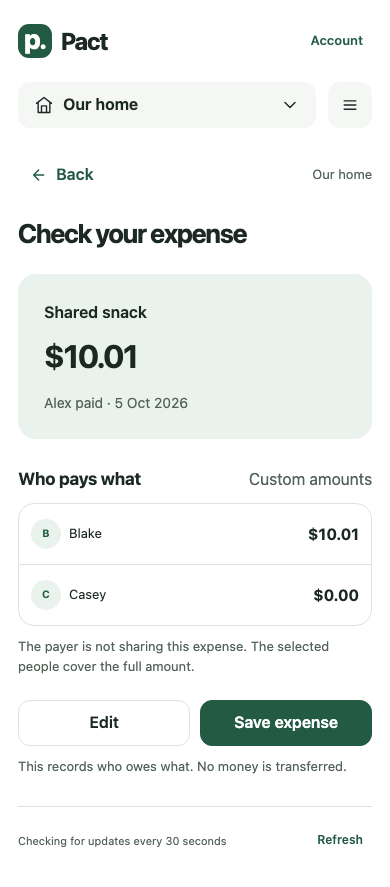
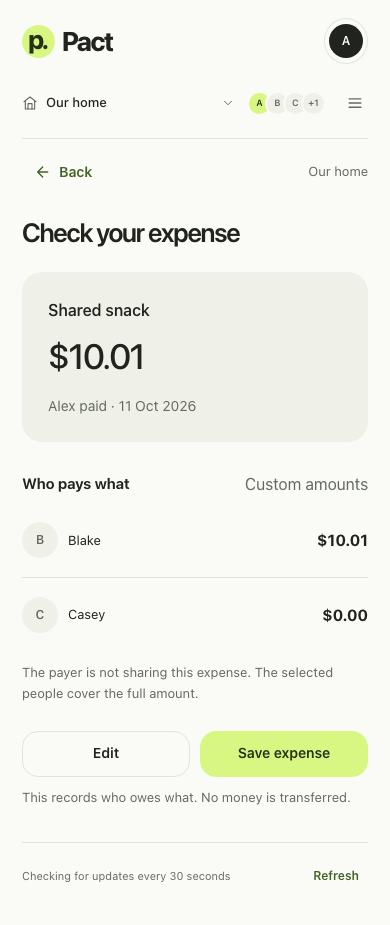
docs(release): prepare the preview.4 appearance upload

diff --git a/src/version.ts b/src/version.ts
@@ -1,1 +1,1 @@
-export const APP_VERSION = '0.4.0-preview.3';
+export const APP_VERSION = '0.4.0-preview.4';

diff --git a/docs/STATUS.md b/docs/STATUS.md
@@ -1,23 +1,21 @@
 # Project status
 
-Pact **0.4.0-preview.2** was deployed on **6 October 2026**. It is a household pilot combining custom-share auto-fill, editable display names and System/Light/Dark appearance with the existing shared-house workflows. This is a dated release milestone, not a live service-status report.
+Pact **0.4.0-preview.3** was verified in production on **11 October 2026**: the served JavaScript matched the prepared release bundle and 15 profile, household-state and repayment function bodies matched the reviewed source. This is a dated verification, not a live service-status report. The read-only preflight did not read or change household records.
 
-## Next candidate: repayments and personal approval preferences
+## Next candidate: minimal appearance
 
-**0.4.0-preview.3**, prepared **11 October 2026**, is **not deployed to production yet**. Payments settle automatically by default; each recipient can enable approval in Account for future incoming records across their households and trips. Existing pending records still require review. The recipient can enter a transfer that the sender forgot to record, acknowledge receipt and update balances immediately. Pending sender reports must be reconciled first; matching amount/date records require an explicit separate-payment acknowledgement. Recorder attribution, activity and reversal preserve the audit trail.
+**0.4.0-preview.4**, prepared **11 October 2026**, is **ready for manual upload and not deployed yet**. It adopts warm-white, charcoal and lime colours, an unboxed balance, aligned divider lists, a floating navigation bar, account initials and native appearance choices. The existing payment approval, reversal and recovery behavior remains. There is no new database migration.
 
 | Candidate check | Evidence |
 |---|---|
-| Local Node/database tests | All 30 passed, including migration backfill, old request replay, balances, duplicate guards and permissions |
-| TypeScript and Vite build | Passed |
-| Isolated browser suite | All 23 scenarios passed, including recipient recording, pending reconciliation, duplicate handling and lost-response recovery |
-| Visual review | New recipient form inspected in light/dark appearance; pending-record screen inspected |
-| Hosted staging migration | Both migrations installed; all 11 combined check groups passed with synthetic fixtures rolled back |
-| Hosted staging advisors | No database security errors or warnings; existing INFO findings for RPC-only tables without direct-access policies remain |
+| Node/database suite | All 30 tests passed |
+| TypeScript and production builds | Passed; configured build retains the bundle-size advisory |
+| Isolated browser suite | All 24 scenarios passed, including main screens in both themes at 320/390/768/1280 widths |
+| Layout and access checks | Large and zero balances, long names, 12-person household, two-person trip, keyboard navigation, footer clearance, short dialogs and automated accessibility scans |
+| Visual review | Synthetic app screenshots inspected; README gallery refreshed |
+| Production preflight | Preview.3 public frontend and profile/repayment function bodies match the reviewed source; no new SQL needed |
 
-The Auth advisor separately warns that leaked-password protection is disabled. Pact's operations require a verified Google identity; the warning is not a finding introduced by this migration. Account owners can review [Supabase's password-protection guidance](https://supabase.com/docs/guides/auth/password-security#password-strength-and-leaked-password-protection).
-
-See the [candidate release notes](RELEASE-0.4.0-PREVIEW.3.md) for compatibility and deployment order. Test results above do not establish concurrency across independent database sessions.
+See [preview.4 release notes](RELEASE-0.4.0-PREVIEW.4.md) for deployment order and validation limits. The previous repayment release's 11 hosted staging check groups remain recorded in [preview.3 notes](RELEASE-0.4.0-PREVIEW.3.md); the appearance release does not change their schema or functions.
 
 ## Implemented
 
@@ -26,7 +24,7 @@ See the [candidate release notes](RELEASE-0.4.0-PREVIEW.3.md) for compatibility 
 - Equal/custom expense splits, automatic remaining shares, corrections, voids and refunds.
 - Own-display-name editing, initials avatars and browser-specific appearance preferences.
 - Shopping requests, claims, partial purchases and purchase-linked expenses.
-- Repayment recording, recipient confirmation and reversal; direct recipient recording is included in the new candidate.
+- Repayment recording by sender or recipient, automatic settlement by default, personal incoming approval preferences and reversal history.
 - Draft/save recovery, activity history and CSV/JSON exports.
 
 ## Previous release verification: 0.4.0-preview.2

diff --git a/docs/RELEASE-0.4.0-PREVIEW.4.md b/docs/RELEASE-0.4.0-PREVIEW.4.md
@@ -1,0 +1,30 @@
+# Minimal appearance update — 0.4.0-preview.4
+
+Prepared **11 October 2026**. **Ready for manual upload; this candidate is not deployed yet.** The existing preview.3 frontend and its profile/repayment function definitions were verified in production during this preparation.
+
+## What changes
+
+Pact now uses warm white, charcoal and a restrained lime accent. The balance is a large unboxed amount with a written owed/owing/settled state. Member and expense lists use aligned amounts and light separators, and a floating navigation bar keeps the four main screens within reach.
+
+The header includes the signed-in person's initials and a compact link to household members. Home shows shopping and pending-approval shortcuts. Account provides native System, Light and Dark choices; the app's browser colours and installation icons follow the new palette. Forms, review screens, history, errors and recovery messages use the same spacing and controls.
+
+Balances offers **I paid** and **I received**. Both use the existing repayment operations from preview.3. Automatic settlement remains the default; each recipient can require approval for future incoming records. Changing that preference still uses an explicit save, and existing pending records remain pending. No stored-data or membership rules change in this appearance release.
+
+## Installation and rollback
+
+There is **no new database migration**. A backend already running preview.3 has everything this release needs. Upload the configured static build to the existing Pages project, then reload open app tabs and check Account shows **0.4.0-preview.4**.
+
+For an older backend or a new installation, follow the [deployment guide](DEPLOYMENT.md); apply any missing migrations before publishing. Never rerun an already installed repayment migration.
+
+Keep the prior preview.3 deployment available for frontend rollback. This appearance update needs no database rollback. Existing Home Screen shortcuts may retain an older icon until the browser refreshes their manifest. Configured bundles and private upload instructions remain outside the public repository.
+
+## Verification
+
+- All **30 Node/database tests** passed; existing ledger, permission, duplicate, reversal, profile and recovery coverage remains.
+- TypeScript and Vite production builds passed. Configured builds retain the existing bundle-size advisory.
+- All **24 isolated browser scenarios** passed. Main screens cover light/dark appearance at 320, 390, 768 and 1280 pixels, visible current navigation, keyboard use and bottom-content clearance.
+- Additional checks cover exact owed/owing/zero balances, large amounts, a 12-person household with a long name, a two-person trip, short-height dialogs, long profile names and persisted System/Light/Dark choices.
+- Synthetic screenshots of Home, Balances, shopping, expense review, profiles and repayment forms were inspected. Automated accessibility scans reported no violations in the covered states.
+- Read-only production preflight matched the preview.3 JavaScript bundle and 15 profile, household-state and repayment function bodies against the reviewed source. No household records were read or changed by that preflight.
+
+The browser harness intercepts external requests and uses synthetic identities with disposable local databases. These results do not establish real multi-account Realtime delivery, concurrent PostgreSQL sessions, native Home Screen installation or screen-reader usability. No two-phone acceptance test was performed. Earlier hosted staging repayment checks are documented in the [preview.3 release notes](RELEASE-0.4.0-PREVIEW.3.md); they are not presented as new hosted tests for this appearance update.

diff --git a/docs/DEPLOYMENT.md b/docs/DEPLOYMENT.md
@@ -94,13 +94,21 @@ Optional physical-device checks cover decimal keyboards, enlarged text, screen-r
 
 A frontend rollback does not reverse database migrations. Before changing stored-data behaviour, test the migration separately, preserve compatibility with open older clients, and establish a database backup and restore procedure. Pact's CSV/JSON exports are not full backups.
 
+## Upgrade to 0.4.0-preview.4
+
+This is an appearance update on top of preview.3. There is **no new database migration**. If the target backend already has all six migrations, build the configured frontend and upload its static assets. Do not rerun the earlier repayment SQL. If upgrading from preview.2, install the two repayment migrations described below first.
+
+The candidate adopts warm-white, charcoal and lime surfaces, a larger unboxed balance, clean lists, an initials account control, a floating navigation bar and System/Light/Dark appearance controls. All money, membership and recovery operations keep their existing database interfaces. Review [preview.4 release notes](RELEASE-0.4.0-PREVIEW.4.md) before publishing.
+
+After deployment, reload open tabs and check Account shows **0.4.0-preview.4**. Confirm the household, navigation, approval setting and light/dark appearance load. An existing Home Screen shortcut may keep its old icon until the browser refreshes its manifest; this does not require recreating the account. A frontend rollback to preview.3 needs no database rollback.
+
 ## Upgrade to 0.4.0-preview.3
 
 From a backend already running the first four migrations, apply the fifth and sixth migrations in order. Validate them in staging before production: existing payment rows must retain their amounts, status and participants, with `recorded_by` backfilled to the sender. Check both recording directions, pending reconciliation, exact duplicate handling, reversal, permissions and replay of a request created before the migration.
 
 Apply both validated migrations to the target backend **before publishing the new frontend**. Existing amounts, participants and statuses must stay unchanged; new preferences default to automatic settlement. Older clients retain sender recording, confirmation and request recovery, but their old explanatory text does not describe automatic settlement, so reload open clients after deployment; a new exact duplicate is now rejected, and the older form has no separate-payment override. A frontend rollback can leave the additive migration in place. Do not rerun older migrations or delete ledger records to roll back the interface.
 
-The candidate is not yet deployed to production. See [0.4.0-preview.3 release notes](RELEASE-0.4.0-PREVIEW.3.md) for current staging evidence and unfinished validation.
+The preview.3 frontend and repayment function definitions were verified in production on 11 October 2026. See [0.4.0-preview.3 release notes](RELEASE-0.4.0-PREVIEW.3.md) for the verification scope.
 
 ## Earlier upgrade from 0.3
 

diff --git a/docs/RELEASE-0.4.0-PREVIEW.3.md b/docs/RELEASE-0.4.0-PREVIEW.3.md
@@ -1,6 +1,6 @@
 # Repayments and personal approval preferences — 0.4.0-preview.3
 
-Prepared **11 October 2026**. **Release candidate; not deployed to production yet.** The [previous 0.4.0-preview.2 milestone](RELEASE-0.4-PREVIEW.md) remains the recorded production release.
+Prepared **11 October 2026**. **Verified in production on 11 October 2026** during preparation of the following appearance release. The served JavaScript matched the prepared release bundle, and 15 profile, household-state and repayment function bodies matched the reviewed migrations. This read-only check did not create or modify household records.
 
 ## What changes
 
@@ -41,4 +41,4 @@ Both recording paths and payment actions share a transaction lock for the direct
 
 Local tests use synthetic records and PGlite, whose queries are serialised. They cover both recording orderings but do not prove behaviour across concurrent PostgreSQL connections, real multi-client Realtime delivery or physical-device accessibility. No new independent two-account or two-phone acceptance is claimed.
 
-Production migration and frontend deployment are not performed by this release preparation. Apply both new migrations, then immediately upload the configured frontend. New hosted Google-account/device acceptance has not been run. Configured bundles, environment identifiers, credentials, invitation links and real household records remain outside this public repository.
+The originally prepared upload has since been installed. Do not reapply those migrations to an already upgraded backend. A new installation still needs all six migrations in order. New hosted Google-account/device acceptance has not been run. Configured bundles, environment identifiers, credentials, invitation links and real household records remain outside this public repository.

diff --git a/README.md b/README.md
@@ -10,7 +10,9 @@ Built with **React, TypeScript, Vite and Supabase**. Designed for phones, with l
 
 The [auto-fill, profile and appearance update](docs/RELEASE-0.4-PREVIEW.md) was deployed on **6 October 2026** as **0.4.0-preview.2**. It combines the custom-share improvements from 0.3.1 with basic profiles and device appearance preferences.
 
-The next candidate, [0.4.0-preview.3](docs/RELEASE-0.4.0-PREVIEW.3.md), adds direct receipt recording, automatic settlement by default and each recipient’s own approval preference. It is **not deployed to production yet**.
+The [repayment update, 0.4.0-preview.3](docs/RELEASE-0.4.0-PREVIEW.3.md), is deployed and was verified on **11 October 2026**. It adds direct receipt recording, automatic settlement by default and each recipient’s own approval preference.
+
+The next candidate, [0.4.0-preview.4](docs/RELEASE-0.4.0-PREVIEW.4.md), brings a minimal warm-white, charcoal and lime appearance to the working app. It is **prepared for upload, not deployed yet**.
 
 ## What it does
 
